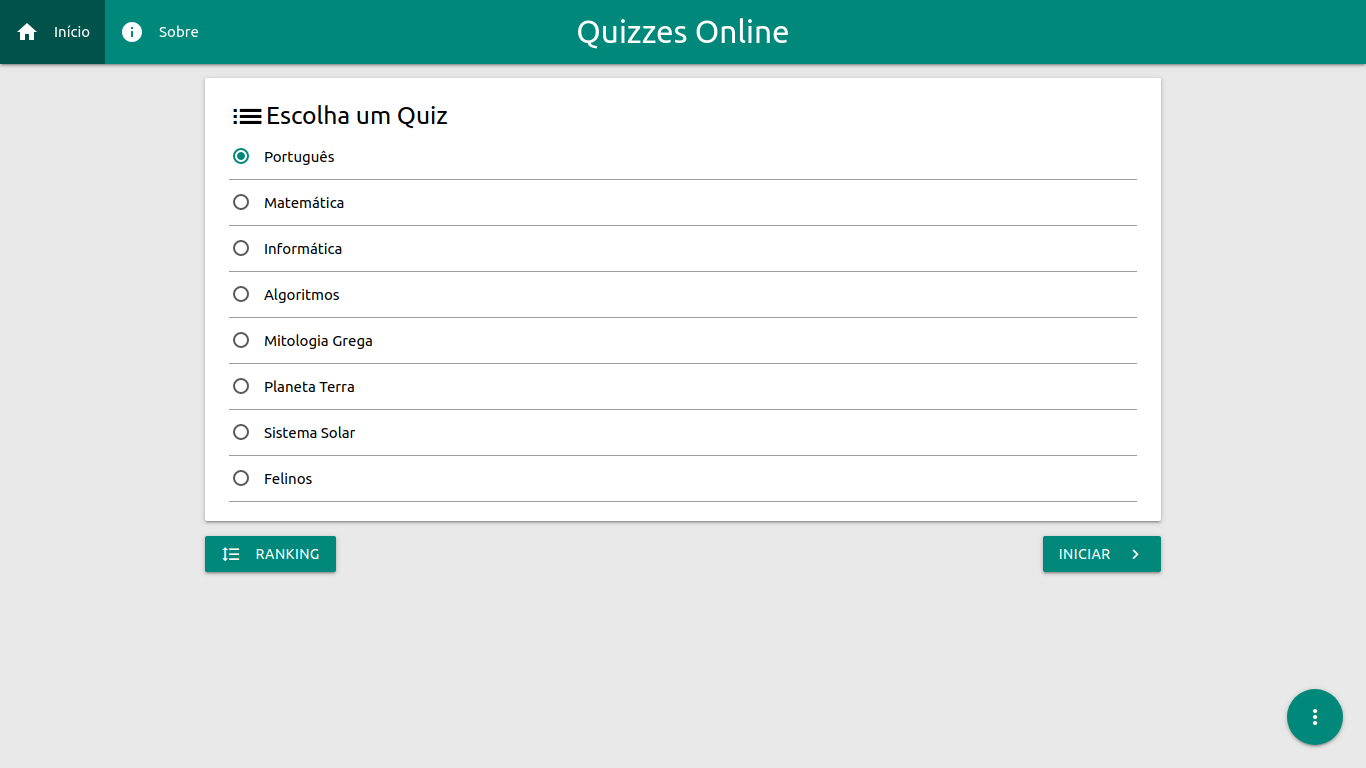
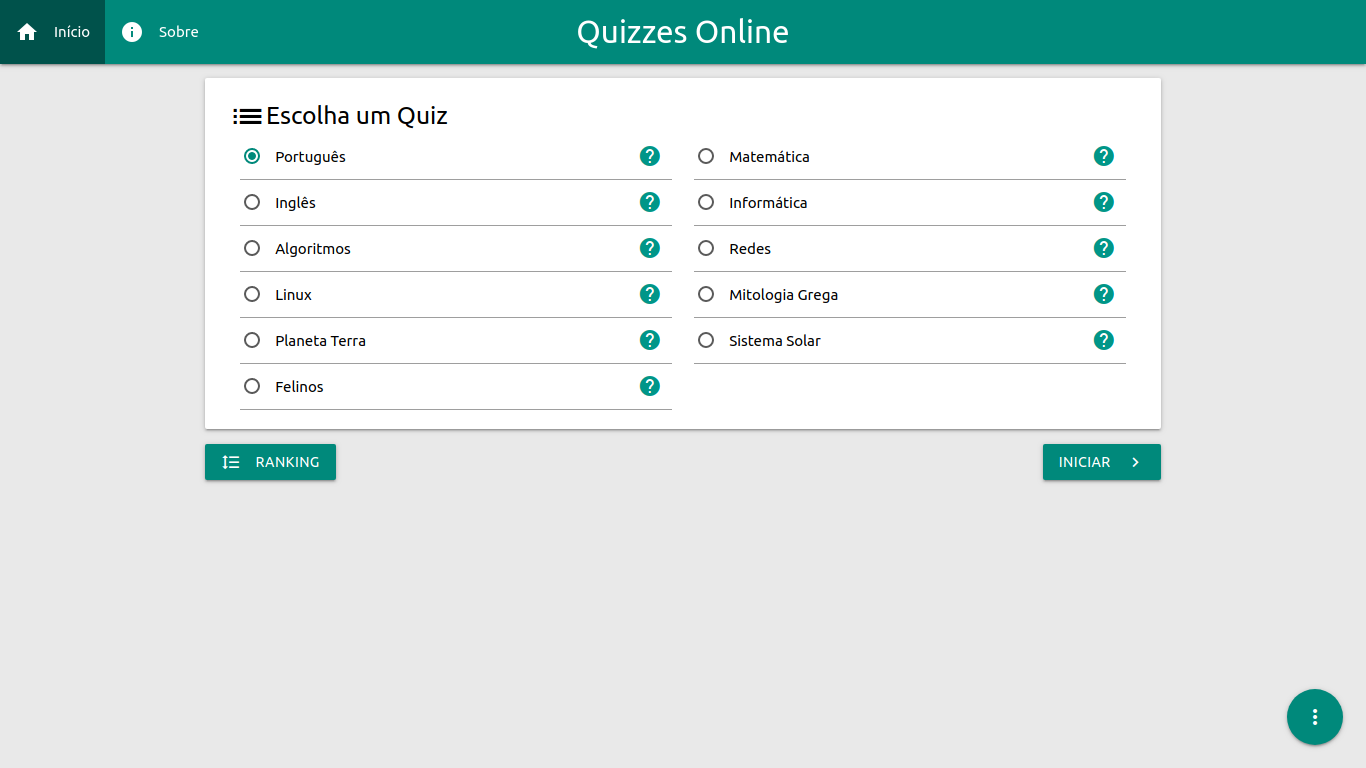
information button added

diff --git a/index.html b/index.html
@@ -146,7 +146,7 @@
 	<section id="modal1" class="modal">
 		<div class="modal-content">
 			<h4><i class="material-icons red-text" style="top:1px">sentiment_very_dissatisfied</i> Desistir</h4>
-			<p>Você tem certeza que deseja desistir?</p>
+			<p style="font-size:16px;margin:0">Você tem certeza que deseja desistir?</p>
 		</div>
 
 		<div class="divider"></div>
@@ -159,7 +159,7 @@
 	<section id="modal2" class="modal">
 		<div class="modal-content">
 			<h4><i class="material-icons" id="star">star</i> Quiz finalizado</h4>
-			<p>Você acertou <span id="points"></span></p>
+			<p style="font-size:16px;margin:0">Você acertou <span id="points"></span></p>
 		</div>
 
 		<div class="divider"></div>
@@ -212,7 +212,7 @@
 	<section id="modal6" class="modal">
 		<div class="modal-content">
 			<h4><i class="material-icons red-text" style="top:1px">sentiment_dissatisfied</i> Você perdeu!</h4>
-			<p>Você chegou no limite de tempo, tente novamente!</p>
+			<p style="font-size:16px;margin:0">Você chegou no limite de tempo, tente novamente!</p>
 		</div>
 
 		<div class="divider"></div>
@@ -225,7 +225,7 @@
 		<div class="modal-content">
 			<h4><i class="material-icons left red-text" style="top:6px;margin:0 5px 0 0">clear</i>Limpar Ranking</h4>
 
-			<p>Você tem certeza que deseja limpar o Ranking?</p>
+			<p style="font-size:16px;margin:0">Você tem certeza que deseja limpar o Ranking?</p>
 		</div>
 
 		<div class="divider"></div>
@@ -243,9 +243,24 @@
 				<label>
 					<input id="darktheme" type="checkbox" onchange="if (this.checked) darkTheme(); else lightTheme()">
 					<span class="lever"></span>
-					Tema Dark
+					<span class="text">Tema Dark</span>
 				</label>
 			</div>
+		</div>
+
+		<div class="divider"></div>
+		<div class="modal-footer">
+			<button title="Fechar" class="modal-close waves-effect waves-light btn"><i class="material-icons left">close</i>Fechar</button>
+		</div>
+	</section>
+
+	<section id="modal9" class="modal">
+		<div class="modal-content">
+			<h4><i class="material-icons left teal-text" style="top:7px;margin:0 5px 0 0">help</i><span id="quizName"></span></h4>
+
+			<p id="quizInformation" style="font-size:16px;margin:0"></p>
+			<!-- <p style="font-size:16px;margin:0">Quantidade de vezes jogadas: 1.000</p> -->
+			<!-- <p style="font-size:16px;margin:0">Quantidade de jogos salvos: 1.200</p> -->
 		</div>
 
 		<div class="divider"></div>

diff --git a/src/js/index.js b/src/js/index.js
@@ -28,7 +28,9 @@ const btnNext = document.querySelector('#next'),
 	actionButtons = document.querySelectorAll('.fixed-action-btn'),
 	actionButton = document.querySelector('#actionButton'),
 	navButtons = document.querySelector('#nav-mobile'),
-	navMenu = document.querySelector('#navMenu')
+	navMenu = document.querySelector('#navMenu'),
+	quizName = document.querySelector('#quizName'),
+	quizInformation = document.querySelector('#quizInformation')
 
 let points = 0,
 	currentQuestion = 0,
@@ -42,7 +44,8 @@ let points = 0,
 for (let i = 0; i < names.length; i++) {
 	radioButtons +=
 		`<div class="col s12 m6">
-			<p>
+			<p style="position:relative">
+				<i title="Informações" class="material-icons modal-trigger teal-text" data-target="modal9" style="position:absolute;right:10px;cursor:pointer" onclick="changeInformation(${i})">help</i>
 				<label>
 					<input class="with-gap" name="selectQuiz" type="radio" data-num="${i}" ${i == 0 ? 'checked' : ''} />
 					<span>${names[i]}</span>
@@ -386,6 +389,11 @@ const deleteItem = (item, index) => {
 const clearSavedItems = () => {
 	localStorage.removeItem('registeredItems')
 	renderSavedItems()
+}
+
+const changeInformation = quiz => {
+	quizName.innerHTML = names[quiz]
+	quizInformation.innerHTML = `Quantidade de perguntas: ${questions[quiz].length}`
 }
 
 const tabletMedia = x => {
